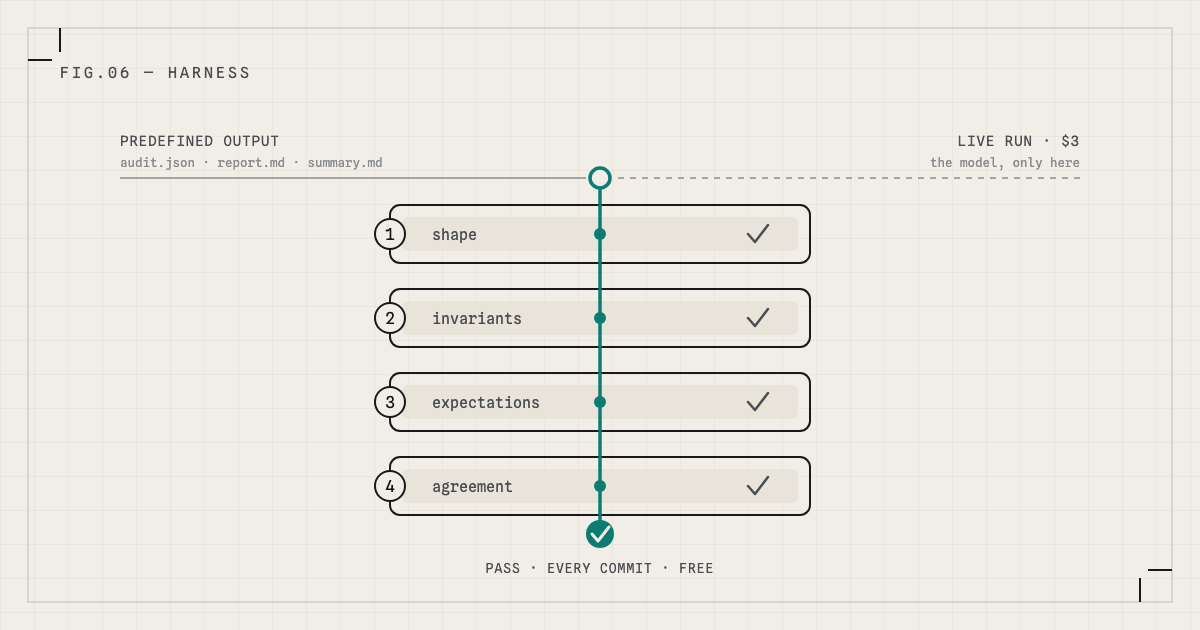
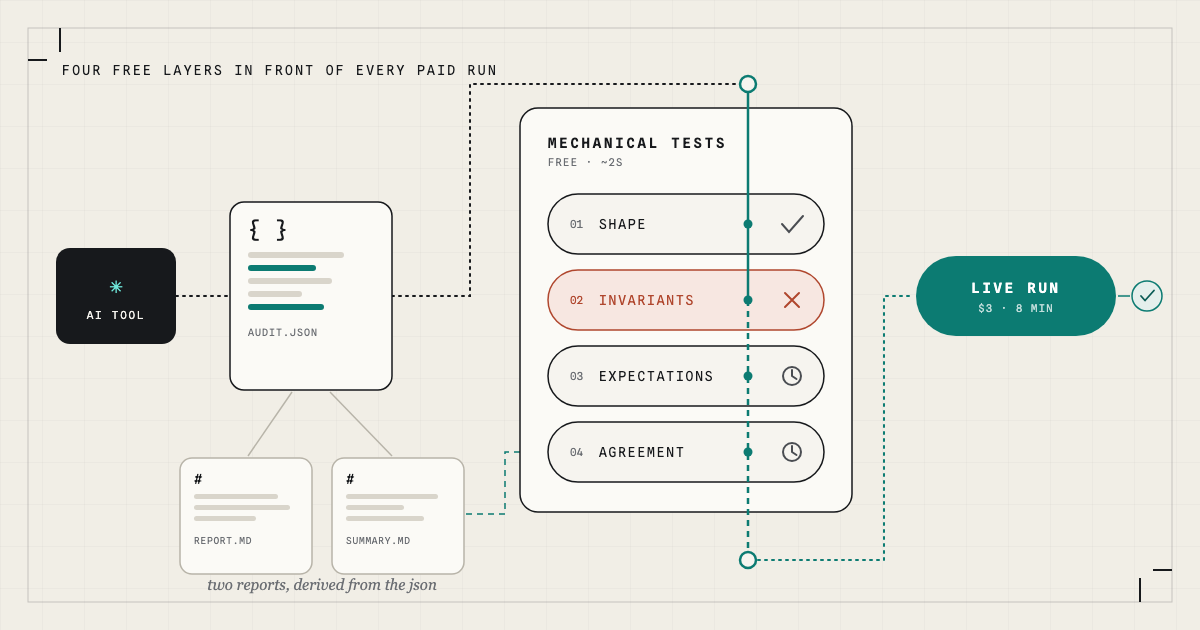
swap in the hand-made cover for testing-ai-tools
Replace the generated FIG.06 cover with the hand-made cover art (direction 3a): the AI tool writes audit.json, two reports derive from it, the json runs the mechanical-test panel (invariants failing red) and the teal thread continues into the paid live run. Integration adds the inline font-family stacks every house cover carries — the source SVG had none, so as an <img> or in the PNG renderer it fell back to Times — and replaces the inert class="serif" with explicit Newsreader/Georgia italic. coverAlt rewritten to describe the new artwork; publish date set to the actual publish day.

diff --git a/src/content/posts/testing-ai-tools.md b/src/content/posts/testing-ai-tools.md
@@ -1,10 +1,10 @@
 ---
 title: "Did it check, or did it guess? Testing a tool whose output is written by an LLM"
-date: "2026-07-18"
+date: "2026-07-19"
 tags: ["ai", "agents", "testing"]
 excerpt: "My first AI tool worked, or at least the output looked right when I ran it. Then I pictured a client asking what makes it trustworthy: did it check, or did it guess? This is how I built a real answer, and how designing the output for testing made the tool harder to lie with."
 cover: "/blog/covers/testing-ai-tools.svg"
-coverAlt: "A vertical gauntlet of four numbered checking layers (shape, invariants, expectations, agreement); the tool's output runs down through all four as a single teal thread and exits verified, while a muted side path marks the one paid live run that also feeds the same layers."
+coverAlt: "An AI tool writes audit.json, and two markdown reports derive from that json. The json enters a panel of mechanical tests, free and about two seconds: shape passes, invariants fails in red, expectations and agreement still pending. A teal thread carries on to the paid live run, three dollars and eight minutes, which ends in a check mark."
 # TODO(dragos): add the dev.to URL of this article's cross-post (devto: "…")
 ---
 